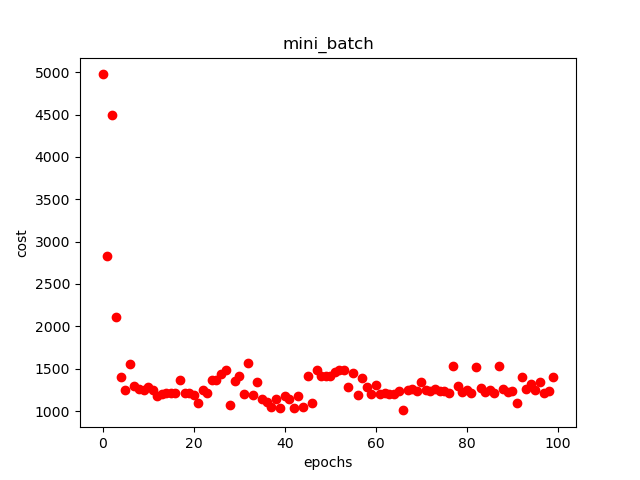
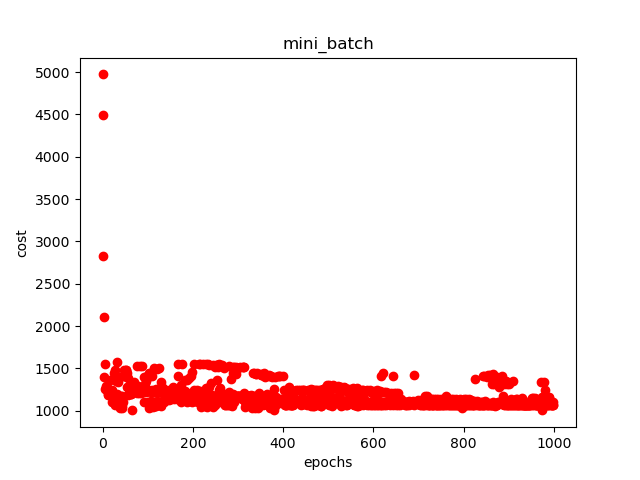
final commit

diff --git a/partC/comparative.py b/partC/comparative.py
@@ -1,0 +1,57 @@
+import sys
+sys.path.append('..')
+
+import pandas as pd
+import numpy as np
+from helper.preprocessing import Preprocessing
+from helper.metrics import Metrics
+from logistic.logisticRegression import LogisticRegression
+
+df = pd.read_csv("../data/cancer.csv")
+df = df.drop(df.columns[0],axis=1)
+
+preprocessor = Preprocessing()
+
+df = preprocessor.fillna(df)
+
+y = df.iloc[:,0]
+X = df.drop(df.columns[[0]],axis = 1)
+
+y = preprocessor.categorical_to_numerical_l(y)
+
+type = {
+    0:"batch",
+    1:"stochastic",
+    2:"mini_batch"
+}
+
+res = pd.DataFrame()
+
+epochs = 10000
+
+for i in range(3):
+    accuracy = 0
+    precision = 0
+    recall = 0
+    
+    X_train, X_test = preprocessor.train_test_split(X,train_size=0.67,random_state=13)
+    y_train, y_test = preprocessor.train_test_split(y,train_size=0.67,random_state=13)
+
+    X_train = preprocessor.normalize(X_train)
+    logistic = LogisticRegression(0.01,epochs,0.7,type[i],'normalized')
+    if i == 0:
+        logistic.fit_batch(X_train,y_train)
+    elif i == 1:
+        logistic.fit_stochastic(X_train,y_train)
+    else:
+        logistic.fit_mini_batch(X_train,y_train)
+
+    X_test = preprocessor.normalize(X_test)
+    y_pred = logistic.predict(X_test)
+    y_test = np.array(y_test)
+
+    metrics = Metrics(y_pred, y_test)
+    accuracy=metrics.accuracy()
+    precision=metrics.precision()
+    recall=metrics.recall()
+    print(accuracy,precision,recall,type[i])

diff --git a/partB/FLDM1.py b/partB/FLDM1.py
@@ -46,6 +46,6 @@ accuracy/=10
 precision/=10
 recall/=10
 
-series = pd.Series([accuracy,precision,recall, 'N/A'],index=["accuracy","precision","recall", "epochs"])
+series = pd.Series([accuracy,precision,recall, 'N/A', fischer.point[1]],index=["accuracy","precision","recall", "epochs", "Decision Boundary for latest Model"])
 print(series)
 series.to_csv("FLDM1.csv", header=False)

diff --git a/partB/FLDM2.py b/partB/FLDM2.py
@@ -47,6 +47,6 @@ accuracy/=10
 precision/=10
 recall/=10
 
-series = pd.Series([accuracy,precision,recall, 'N/A'],index=["accuracy","precision","recall", "epochs"])
+series = pd.Series([accuracy,precision,recall, 'N/A', fischer.point[1]],index=["accuracy","precision","recall", "epochs", "Decision Boundary for latest Model"])
 print(series)
 series.to_csv("FLDM2.csv", header=False)

diff --git a/partC/LR1.py b/partC/LR1.py
@@ -27,7 +27,7 @@ type = {
 
 res = pd.DataFrame()
 
-epochs = 100
+epochs = 1000
 
 for i in range(3):
     for lr in [0.01,0.001,0.0001]:

diff --git a/partC/LR2.py b/partC/LR2.py
@@ -27,7 +27,7 @@ type = {
 
 res = pd.DataFrame()
 
-epochs = 100
+epochs = 1000
 
 for i in range(3):
     for lr in [0.01,0.001,0.0001]:

diff --git a/README.md b/README.md
@@ -7,5 +7,62 @@ Team Members:
 2) Jatin Jindal
 3) Pradyumna Malladi
 
-M = 1
-B = 0/-1
+### Labels
+
+Malignant = 1
+
+Benign = -1 for perceptron, FLDA
+
+Benign = 0 for logistic
+
+# Perceptron Algorithm
+
+After 10000 epochs, data gives 90-92% accuracy, 90-94% precision and 85-90% recall when tested using average of 10 different train-test splits.
+
+It is expected that even after further iterations Perceptron will not outperform normalized data.
+
+After normalizing data, the algorithm converges under 10000 epochs giving 94% accuracy, 92% precision and 94% recall.
+
+Rearranging the feature order does not affect the result. The weight vector appears similarly rearranged.
+
+# Fischer's Linear Discriminant Analysis
+
+Fischer's LDA does not require training and directly gives 95% accuracy, 95% precision and 91% recall on normalized and imputed data.
+
+Rearranging the feature order does not affect the result. The weight vector appears similarly rearranged.
+
+# Logistic Regression
+
+After running for a 1000 epochs it gives maximum of 97% accuracy. It is expected to go even higher with more epochs.
+
+## Batch Gradient Descent
+
+Batch Gradient Descent shows a 74-89% accuracy, 63-89% precision and 76-81% recall with un-normalized data all decreasing with decrease in learning rate.
+
+With normalized data, it gives 88-93% accuracy, 82-92% precision and 89-95% recall.
+
+## Stochastic Gradient Descent
+
+Stochastic Gradient Descent shows a 89-91% accuracy, 88-90% precision, 81-88% recall, all except precision decreasing with decrease in learning rate.
+
+With normalized data, it gives 95-97% accuracy, 91-97% precision and 89-96% recall.
+
+## Mini-Batch Gradient Descent
+
+It shows 86-89% accuracy, 84-88% precision, 83-85% recall with raw data.
+
+Shows 95-97% accuracy, 92-97% precision and 94-95% recall with normalized data.
+
+## Comparative Study
+
+After 10000 epochs (except for Fischer) following is the table of observations. (Normalized Data Only)
+
+| Models     | Accuracy          | Precision         | Recall            |
+| :--------- | :---------------- | :---------------- | :---------------- |
+| Perceptron | 0.943010752688172 | 0.916875661563711 | 0.937355374697079 |
+| Fischer    | 0.950531914893617 | 0.952921328366989 | 0.914998930095255 |
+| Batch      | 0.968085106382979 | 1                 | 0.916666666666667 |
+| Stochastic | 0.968085106382979 | 0.958333333333333 | 0.958333333333333 |
+| Mini Batch | 0.968085106382979 | 0.958333333333333 | 0.958333333333333 |
+
+Logistic Regression Metrics have been run for 10000 epochs for only a specific learning rate and threshold and may vary based on others. However, it clearly outperforms both Fischer and Perceptron.
